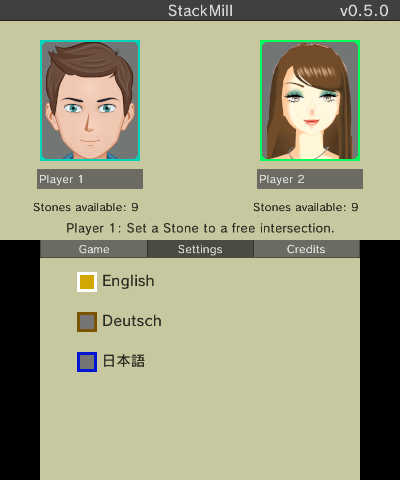
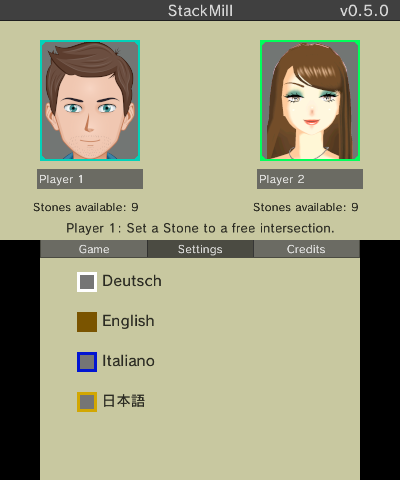
See desc for more.
- Fix Splash being able to lock the app.
- Update Credits + Screenshots.
- Fill Selected Option in the same color to look better.

diff --git a/3DS/source/Components/Tabs/SettingsTab.cpp b/3DS/source/Components/Tabs/SettingsTab.cpp
@@ -56,7 +56,7 @@ void SettingsTab::DrawMenu(const SettingsTab::SubMenu M, const int AddOffs) {
 					StackMill3DS::App->GData->DrawStone(Idx, this->XPos[Idx] + Tab::SettingsOffset, 45 + AddOffs);
 				}
 
-				StackMill3DS::App->GData->DrawSprite(sprites_selector_0_idx + SettingsTab::StoneColors[2], this->XPos[SettingsTab::StoneColors[0]] + Tab::SettingsOffset, 45 + AddOffs);
+				StackMill3DS::App->GData->DrawSprite(sprites_selector_0_idx + SettingsTab::StoneColors[0], this->XPos[SettingsTab::StoneColors[0]] + Tab::SettingsOffset, 45 + AddOffs);
 				if (this->SelectedOption == 0) Gui::drawGrid(5 + Tab::SettingsOffset, 25 + AddOffs, 310, 50, BAR_COLOR_OUTLINE);
 
 				/* Player 2 Stone Color. */
@@ -65,7 +65,7 @@ void SettingsTab::DrawMenu(const SettingsTab::SubMenu M, const int AddOffs) {
 					StackMill3DS::App->GData->DrawStone(Idx, this->XPos[Idx] + Tab::SettingsOffset, 100 + AddOffs);
 				}
 
-				StackMill3DS::App->GData->DrawSprite(sprites_selector_0_idx + SettingsTab::StoneColors[2], this->XPos[SettingsTab::StoneColors[1]] + Tab::SettingsOffset, 100 + AddOffs);
+				StackMill3DS::App->GData->DrawSprite(sprites_selector_0_idx + SettingsTab::StoneColors[1], this->XPos[SettingsTab::StoneColors[1]] + Tab::SettingsOffset, 100 + AddOffs);
 				if (this->SelectedOption == 1) Gui::drawGrid(5 + Tab::SettingsOffset, 80 + AddOffs, 310, 50, BAR_COLOR_OUTLINE);
 
 				/* Possibly Play Color. */
@@ -83,7 +83,7 @@ void SettingsTab::DrawMenu(const SettingsTab::SubMenu M, const int AddOffs) {
 				StackMill3DS::App->GData->DrawStone(4, this->XPos[5] - 15 + Tab::SettingsOffset, 210 + AddOffs); // Yellow.
 				StackMill3DS::App->GData->DrawStone(7, this->XPos[6] - 15 + Tab::SettingsOffset, 210 + AddOffs); // Green.
 
-				StackMill3DS::App->GData->DrawSprite(sprites_selector_0_idx + SettingsTab::StoneColors[2], this->XPos[4 + SettingsTab::AI] - 15 + Tab::SettingsOffset, 210 + AddOffs);
+				StackMill3DS::App->GData->DrawSprite(sprites_selector_0_idx + this->AIModeClr(), this->XPos[4 + SettingsTab::AI] - 15 + Tab::SettingsOffset, 210 + AddOffs);
 				if (this->SelectedOption == 3) Gui::drawGrid(5 + Tab::SettingsOffset, 190 + AddOffs, 310, 45, BAR_COLOR_OUTLINE);
 				break;
 
@@ -97,13 +97,13 @@ void SettingsTab::DrawMenu(const SettingsTab::SubMenu M, const int AddOffs) {
 					else ClrIdx = 0;
 
 					StackMill3DS::App->GData->DrawStone(ClrIdx, this->LanguagePos[Lang].x + Tab::SettingsOffset, this->LanguagePos[Lang].y + AddOffs);
-					if (this->Language == Lang) StackMill3DS::App->GData->DrawSprite(sprites_selector_0_idx + SettingsTab::StoneColors[2], this->LanguagePos[Lang].x + Tab::SettingsOffset, this->LanguagePos[Lang].y + AddOffs);
+					if (this->Language == Lang) StackMill3DS::App->GData->DrawSprite(sprites_selector_0_idx + ClrIdx, this->LanguagePos[Lang].x + Tab::SettingsOffset, this->LanguagePos[Lang].y + AddOffs);
 				}
 
-				Gui::DrawString(this->LanguagePos[0].x + 25 + Tab::SettingsOffset, this->LanguagePos[0].y - 1 + AddOffs, 0.6f, TEXT_BG_COLOR, "English");
-				Gui::DrawString(this->LanguagePos[1].x + 25 + Tab::SettingsOffset, this->LanguagePos[1].y - 1 + AddOffs, 0.6f, TEXT_BG_COLOR, "Deutsch");
-				Gui::DrawString(this->LanguagePos[2].x + 25 + Tab::SettingsOffset, this->LanguagePos[2].y - 1 + AddOffs, 0.6f, TEXT_BG_COLOR, "日本語");
-				Gui::DrawString(this->LanguagePos[3].x + 25 + Tab::SettingsOffset, this->LanguagePos[3].y - 1 + AddOffs, 0.6f, TEXT_BG_COLOR, "Italiano");
+				Gui::DrawString(this->LanguagePos[0].x + 25 + Tab::SettingsOffset, this->LanguagePos[0].y - 1 + AddOffs, 0.6f, TEXT_BG_COLOR, "Deutsch");
+				Gui::DrawString(this->LanguagePos[1].x + 25 + Tab::SettingsOffset, this->LanguagePos[1].y - 1 + AddOffs, 0.6f, TEXT_BG_COLOR, "English");
+				Gui::DrawString(this->LanguagePos[2].x + 25 + Tab::SettingsOffset, this->LanguagePos[2].y - 1 + AddOffs, 0.6f, TEXT_BG_COLOR, "Italiano");
+				Gui::DrawString(this->LanguagePos[3].x + 25 + Tab::SettingsOffset, this->LanguagePos[3].y - 1 + AddOffs, 0.6f, TEXT_BG_COLOR, "日本語");
 				break;
 			}
 
@@ -152,7 +152,7 @@ void SettingsTab::MainHandle() {
 			if (this->MainPos[Idx - 1].Touched(StackMill3DS::App->T)) {
 				this->Menu = (SettingsTab::SubMenu)Idx;
 				this->In = true, this->SelectedOption = 0;
-				if (this->Menu == SettingsTab::SubMenu::Language) this->Language = StackMill3DS::App->LH->GetLang();
+				if (this->Menu == SettingsTab::SubMenu::Language) this->Language = this->LangHandlerToSelection();
 				SettingsTab::Swipe = true;
 				break;
 			}
@@ -169,7 +169,7 @@ void SettingsTab::MainHandle() {
 
 			case 1:
 				this->Menu = SettingsTab::SubMenu::Language;
-				this->In = true, this->Language = StackMill3DS::App->LH->GetLang();
+				this->In = true, this->Language = this->LangHandlerToSelection();
 				SettingsTab::Swipe = true;
 				break;
 
@@ -187,6 +187,16 @@ void SettingsTab::MainHandle() {
 
 	if (StackMill3DS::App->Down & KEY_UP) {
 		if (this->SelectedOption > 0) this->SelectedOption--;
+	}
+};
+
+
+int8_t SettingsTab::AIModeClr() const {
+	switch(SettingsTab::AI) {
+		default:
+		case 0: return 9; // Mode 0 => Red.
+		case 1: return 4; // Mode 1 => Yellow.
+		case 2: return 7; // Mode 2 => Green.
 	}
 };
 
@@ -267,6 +277,28 @@ void SettingsTab::GameSettingsHandle() {
 };
 
 
+int8_t SettingsTab::LangHandlerToSelection() const {
+	switch(StackMill3DS::App->LH->GetLangEnum()) {
+		case LangHandler::Langs::German: return 0;
+		default:
+		case LangHandler::Langs::English: return 1;
+		case LangHandler::Langs::Italian: return 2;
+		case LangHandler::Langs::Japanese: return 3;
+	}
+};
+
+
+int8_t SettingsTab::SelectionToLangHandler(const int8_t Slt) const {
+	switch(Slt) {
+		case 0: return 1; // German.
+		default:
+		case 1: return 0; // English.
+		case 2: return 3; // Italian.
+		case 3: return 2; // Japanese.
+	}
+};
+
+
 void SettingsTab::LanguageHandle() {
 	if (StackMill3DS::App->Down & KEY_B) {
 		this->In = false, this->SelectedOption = 1;
@@ -283,7 +315,7 @@ void SettingsTab::LanguageHandle() {
 
 	if (StackMill3DS::App->Down & KEY_A) {
 		/* Load Language. */
-		StackMill3DS::App->LH->LoadLang((LangHandler::Langs)this->Language);
+		StackMill3DS::App->LH->LoadLang((LangHandler::Langs)this->SelectionToLangHandler(this->Language));
 		StackMill3DS::App->ConfigChanged();
 
 		this->In = false, this->SelectedOption = 1;
@@ -296,7 +328,7 @@ void SettingsTab::LanguageHandle() {
 				this->Language = Idx;
 
 				/* Load Language. */
-				StackMill3DS::App->LH->LoadLang((LangHandler::Langs)this->Language);
+				StackMill3DS::App->LH->LoadLang((LangHandler::Langs)this->SelectionToLangHandler(this->Language));
 				StackMill3DS::App->ConfigChanged();
 
 				this->In = false, this->SelectedOption = 1;

diff --git a/3DS/source/Components/Tabs/GameTab.cpp b/3DS/source/Components/Tabs/GameTab.cpp
@@ -976,17 +976,14 @@ void GameTab::PopupPrompt() {
 
 		/* Handle Input for the prompt. */
 		if (SwipedIn && !EndIt) {
-			hidScanInput();
-			const uint32_t Down = hidKeysDown();
-			touchPosition T;
-			hidTouchRead(&T);
+			StackMill3DS::App->ScanKeys();
 
-			if (Down & KEY_A) State = true, EndIt = true; // New Game.
-			if (Down & KEY_B) State = false, EndIt = true; // Exit.
+			if (StackMill3DS::App->Down & KEY_A) State = true, EndIt = true; // New Game.
+			if (StackMill3DS::App->Down & KEY_B) State = false, EndIt = true; // Exit.
 
-			if (Down & KEY_TOUCH) {
-				if (this->Prompt[0].Touched(T)) State = false, EndIt = true; // Exit.
-				else if (this->Prompt[1].Touched(T)) State = true, EndIt = true; // New Game.
+			if (StackMill3DS::App->Down & KEY_TOUCH) {
+				if (this->Prompt[0].Touched(StackMill3DS::App->T)) State = false, EndIt = true; // Exit.
+				else if (this->Prompt[1].Touched(StackMill3DS::App->T)) State = true, EndIt = true; // New Game.
 			}
 		}
 

diff --git a/3DS/source/Components/Splash.cpp b/3DS/source/Components/Splash.cpp
@@ -52,7 +52,7 @@ void Splash::Handler() {
 
 		/* State 0: Fade In. */
 		if (this->State == 0) {
-			if (StackMill3DS::App->FadeAlpha > 0) {
+			if (StackMill3DS::App->FadeAlpha >= 0) {
 				StackMill3DS::App->FadeAlpha -= 3;
 
 				if (StackMill3DS::App->FadeAlpha == 0) this->State = 1;
@@ -60,7 +60,7 @@ void Splash::Handler() {
 
 		/* State 1: Waiting. */
 		} else if (this->State == 1) {
-			if (this->Wait > 0) {
+			if (this->Wait >= 0) {
 				this->Wait--;
 
 				if (this->Wait == 0) this->State = 2;
@@ -82,7 +82,7 @@ void Splash::Handler() {
 	while(aptMainLoop() && !this->Done) {
 		StackMill3DS::App->Draw();
 
-		if (StackMill3DS::App->FadeAlpha > 0) {
+		if (StackMill3DS::App->FadeAlpha >= 0) {
 			if (StackMill3DS::App->FadeAlpha - 5 <= 0) StackMill3DS::App->FadeAlpha = 0;
 			else StackMill3DS::App->FadeAlpha -= 5;
 

diff --git a/3DS/source/Components/Tabs/CreditsTab.cpp b/3DS/source/Components/Tabs/CreditsTab.cpp
@@ -68,7 +68,8 @@ void CreditsTab::DrawSubTab(const CreditsTab::SubTab STab, const int AddOffs) {
 
 				Gui::DrawStringCentered(0 + Tab::CreditsOffset, 65 + AddOffs, 0.5f, TEXT_BG_COLOR, "Deutsch - SuperSaiyajinStackZ", 310);
 				Gui::DrawStringCentered(0 + Tab::CreditsOffset, 85 + AddOffs, 0.5f, TEXT_BG_COLOR, "English - Pk11, SuperSaiyajinStackZ", 310);
-				Gui::DrawStringCentered(0 + Tab::CreditsOffset, 105 + AddOffs, 0.5f, TEXT_BG_COLOR, "日本語 - Pk11", 310);
+				Gui::DrawStringCentered(0 + Tab::CreditsOffset, 105 + AddOffs, 0.5f, TEXT_BG_COLOR, "Italiano - Samplasion", 310);
+				Gui::DrawStringCentered(0 + Tab::CreditsOffset, 125 + AddOffs, 0.5f, TEXT_BG_COLOR, "日本語 - Pk11", 310);
 				break;
 		}
 	}

diff --git a/3DS/include/Components/Tabs/SettingsTab.hpp b/3DS/include/Components/Tabs/SettingsTab.hpp
@@ -57,11 +57,14 @@ private:
 	};
 
 
+	int8_t AIModeClr() const;
 	void GameSettingsHandle();
 	/* X-Positions of the Stone colors. */
 	static constexpr int XPos[10] = { 15, 45, 75, 105, 135, 165, 195, 225, 255, 285 };
 
 
+	int8_t LangHandlerToSelection() const;
+	int8_t SelectionToLangHandler(const int8_t Slt) const;
 	void LanguageHandle();
 	static constexpr Structs::ButtonPos LanguagePos[4] = {
 		{ 37, 32, 18, 18 },  // English.

diff --git a/README.md b/README.md
@@ -16,7 +16,7 @@ StackMill includes the following features right now:
 
 * Select a color from 10 for the Stones from Player 1, Player 2 and a highlighted color for possible plays.
 
-* Multi Language support. Currently supporting English, German and Japanese.
+* Multi Language support. Currently supporting English, German, Italian and Japanese.
 
 * Importing / Exporting the current match's data, so you can save important matches whenever you want and load them whenever you want.
 
@@ -30,12 +30,11 @@ You want to learn more about the GameData Structure? Then checkout the [GameData
 
 <details><summary>Screenshots</summary>
 
-### Credits Tab
-![](https://github.com/SuperSaiyajinStackZ/StackMill/blob/main/resources/screenshots/creditsTab.png)
-![](https://github.com/SuperSaiyajinStackZ/StackMill/blob/main/resources/screenshots/creditsTabTranslators.png)
-
 ### Game Tab
 ![](https://github.com/SuperSaiyajinStackZ/StackMill/blob/main/resources/screenshots/gameTab.png)
+
+### Splash
+![](https://github.com/SuperSaiyajinStackZ/StackMill/blob/main/resources/screenshots/splash.png)
 
 ### Rules
 ![](https://github.com/SuperSaiyajinStackZ/StackMill/blob/main/resources/screenshots/rules1.png)
@@ -52,9 +51,9 @@ You want to learn more about the GameData Structure? Then checkout the [GameData
 ![](https://github.com/SuperSaiyajinStackZ/StackMill/blob/main/resources/screenshots/settingsTabLanguage.png)
 ![](https://github.com/SuperSaiyajinStackZ/StackMill/blob/main/resources/screenshots/settingsTabImportExport.png)
 
-
-### Splash
-![](https://github.com/SuperSaiyajinStackZ/StackMill/blob/main/resources/screenshots/splash.png)
+### Credits Tab
+![](https://github.com/SuperSaiyajinStackZ/StackMill/blob/main/resources/screenshots/creditsTab.png)
+![](https://github.com/SuperSaiyajinStackZ/StackMill/blob/main/resources/screenshots/creditsTabTranslators.png)
 
 
 </details>
@@ -98,3 +97,4 @@ Once you've cloned the repository (with submodules), simply run `make` in the `3
 ### Translators
 - [SuperSaiyajinStackZ](https://github.com/SuperSaiyajinStackZ): German & English.
 - [Pk11](https://github.com/Epicpkmn11): Japanese & English.
+- [Samplasion](https://github.com/Samplasion): Italian.
